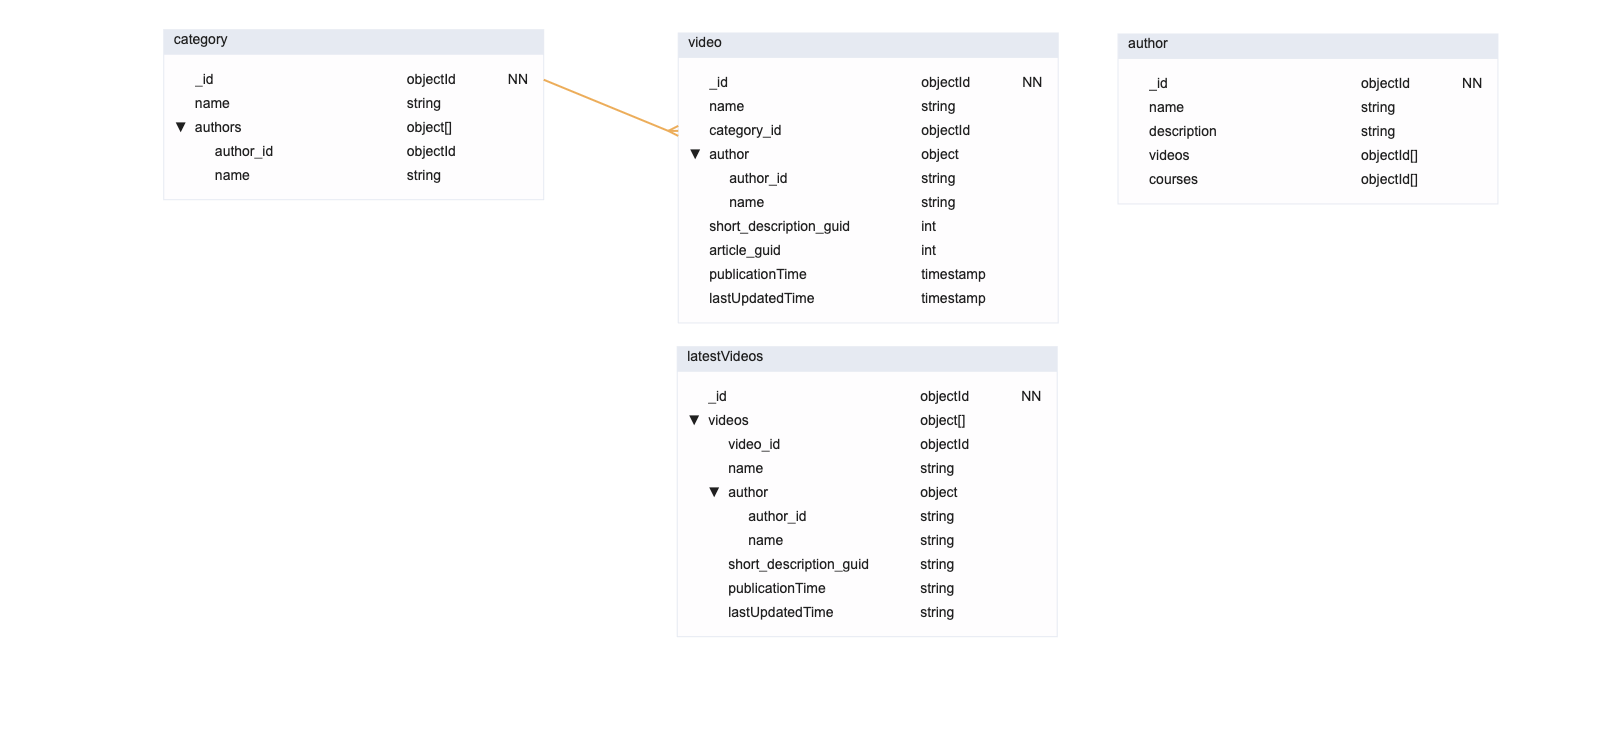
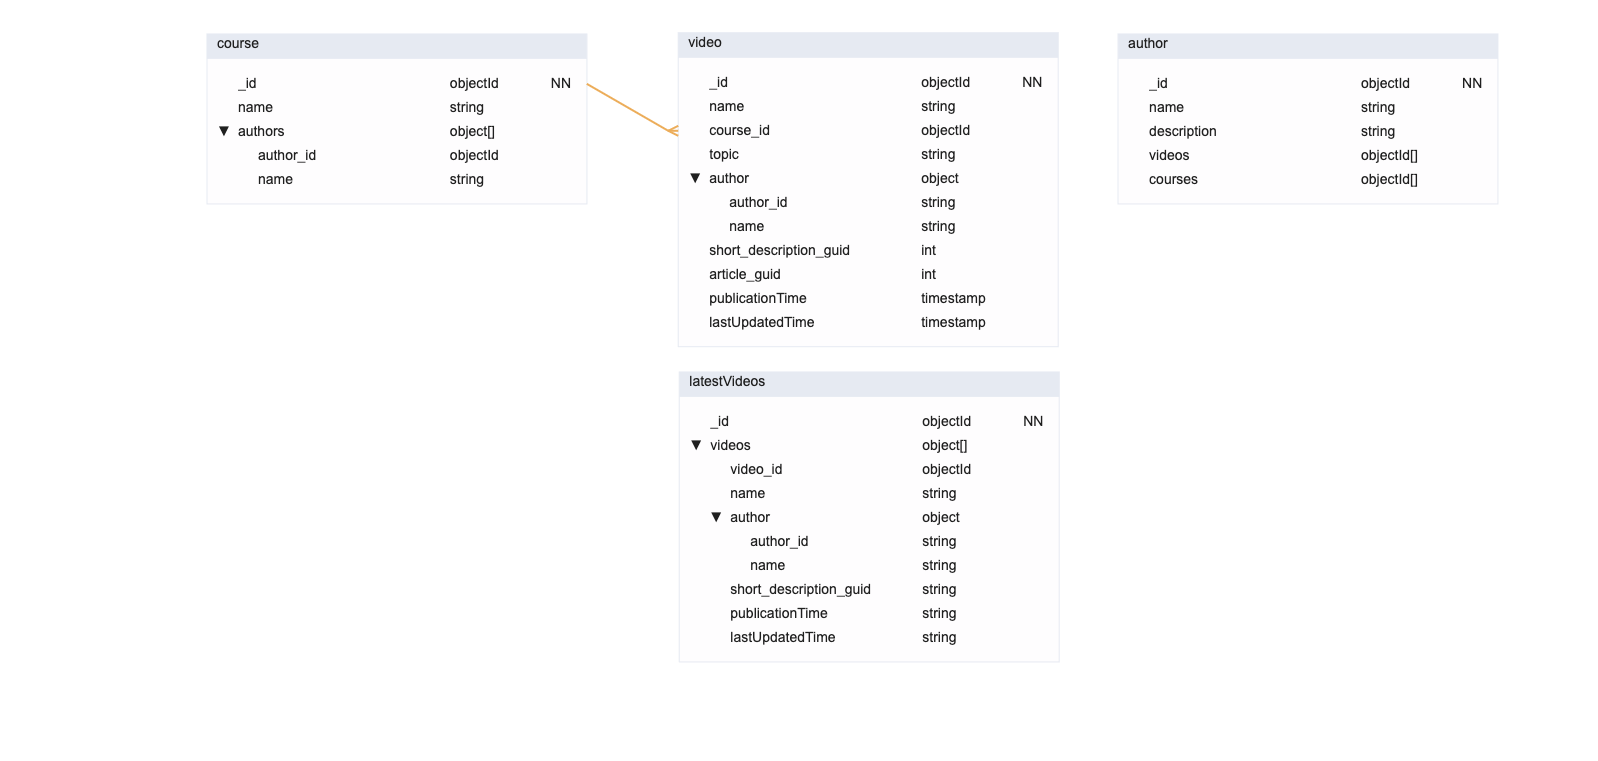
Updated handing modelado

diff --git a/modelado/mandatory/readme.md b/modelado/mandatory/readme.md
@@ -25,17 +25,19 @@ A continuación se resumen los requisitos de nuestro modelo según el enunciado.
 
 ## Solución propuesta
 
-Para el modelado de los datos, se ha partido de una estructura con tres colecciones: category, video y author.
+Para el modelado de los datos, se ha partido de una estructura con tres colecciones: course, video y author.
 
 ![image](./modelado-mandatory-solution.png)
 
-* **Category:** Se refiere a una categoría o grupo a la que un vídeo puede pertenecer. En el caso concreto de la parte obligatoria de esta entrega, esta colección se refiere a un **curso**. Sin embargo, en la parte opcional de la entrega, se tratará al **curso** como un caso particular de category. Category contiene el nombre del curso y la información de sus autores.
+* **Course:** Se refiere a un curso que contiene un conjunto de vídeos. En la parte opcional de la entrega, se tratará al **curso** como un caso particular de category para poder establecer un árbol jerárquico de categorías. Course contiene el nombre del curso y la información de sus autores.
 
-* **Video:** Contiene la información relativa a un video: nombre, categoría (curso) al que pertenece, autor, descripción corta (para la página principal), artículo (texto descriptivo en la página principal del vídeo), fecha de publicación y fecha de su última actualización.
+* **Video:** Contiene la información relativa a un video: nombre, curso al que pertenece, tema, autor, descripción corta (para la página principal), artículo (texto descriptivo en la página principal del vídeo), fecha de publicación y fecha de su última actualización.
 
     * Recordemos que la descripción corta y el artículo se almacenan en un recurso externo pero se ha especificado que mongo guarda su GUID.
 
     * Las fechas de publicación y fecha de última actualización son datos relevantes para saber cuáles son los últimos cursos publicados (o que se actualizaron más recientemente).
+  
+    * El enunciado menciona que cada vídeo puede clasificarse por temáticas (Front End, Backend, Devops). Para cumplir con esto se ha añadido la propiedad topic, pero no queda del todo claro si el objeto course o los tags de la parte opcional / desafío sería suficiente para cumplir con este requisito.
 
 * **Author:** Contiene la información de los autores de los cursos y/o videos, con su nombre, descripción, array de sus cursos y array de sus videos. Se podrían añadir más campos como fecha de nacimiento o redes sociales.
 
@@ -65,6 +67,6 @@ Tal como pasa con el patrón de Extended reference, el precio a pagar en este pl
 
 ### Tree pattern
 
-En la parte obligatoria de esta entrega las referencias entre padres e hijos son mínimas, ya que con solo dos niveles de jerarquía ( Curso > Video ) no se requiere de mayor referencia que establecer una relación 1:M entre category y video.
+En la parte obligatoria de esta entrega las referencias entre padres e hijos son mínimas, ya que con solo dos niveles de jerarquía ( Curso > Video ) no se requiere de mayor referencia que establecer una relación 1:M entre course y video.
 
-Sin embargo, como veremos en la parte opcional de la entrega, en esta parte obligatoria hemos preparado los cimientos para establecer un Tree pattern de cara a la parte opcional.
+Sin embargo, como veremos en la parte opcional de la entrega, este modelo será ampliado para incluir tantos niveles de jerarquía como sea necesario.

diff --git a/modelado/optional-challenge/readme.md b/modelado/optional-challenge/readme.md
@@ -40,7 +40,7 @@ Se parte de la implementación hecha durante en la parte opcional, que consta de
 
 * **Category:** Se refiere a una categoría o grupo a la que un vídeo puede pertenecer. Un curso es un caso particular de category, pero no todos los cursos son category. Un curso es un tipo de category que no tiene padres y que además contiene información específica como un autor o el número de visualizaciones.
 
-* **Video:** Contiene la información relativa a un video: nombre, categoría al que pertenece, curso al que pertenece, autor, descripción corta (para la página principal), artículo (texto descriptivo en la página principal del vídeo), número de visitas, fecha de publicación y fecha de su última actualización.
+* **Video:** Contiene la información relativa a un video: nombre, categoría al que pertenece, curso al que pertenece, tema, autor, descripción corta (para la página principal), artículo (texto descriptivo en la página principal del vídeo), número de visitas, fecha de publicación y fecha de su última actualización.
 
 * **Author:** Contiene la información de los autores de los cursos y/o videos, con su nombre, descripción, array de sus cursos y array de sus videos. Se podrían añadir más campos como fecha de nacimiento o redes sociales.
 
